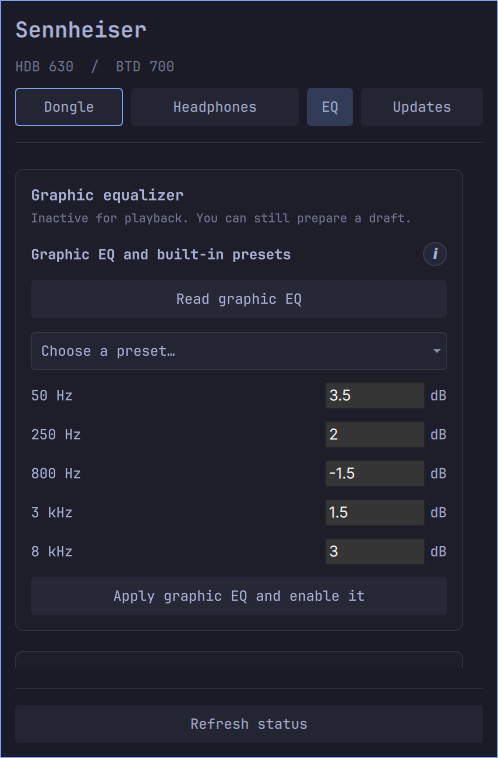
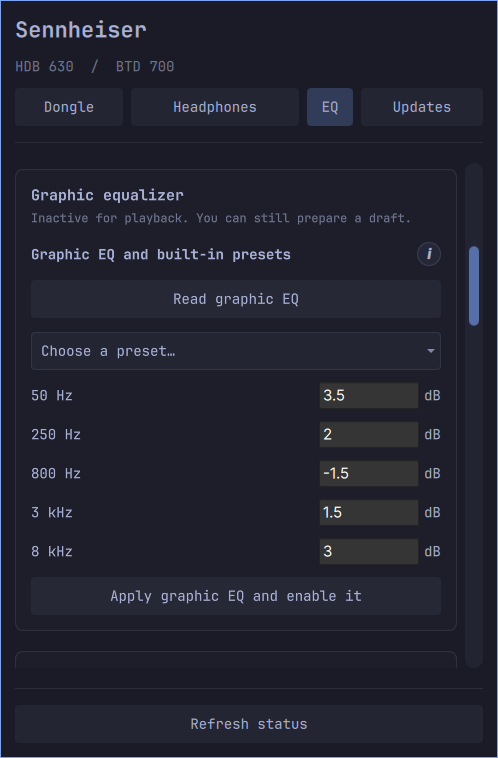
Fix tab focus and show a draggable settings scrollbar

diff --git a/Widget.qml b/Widget.qml
@@ -149,7 +149,9 @@ Panel {
         background: Rectangle {
             radius: 4
             color: actionButton.down || actionButton.checked ? Qt.alpha(Commons.Color.accent, 0.24) : Qt.alpha(Commons.Color.foreground, actionButton.hovered ? 0.14 : 0.07)
-            border.width: actionButton.activeFocus ? 1 : 0
+            // Opening the panel assigns focus automatically; only keyboard
+            // navigation should draw a ring distinct from the selected tab.
+            border.width: actionButton.visualFocus ? 1 : 0
             border.color: Commons.Color.accent
         }
         contentItem: Text {
@@ -412,15 +414,35 @@ Panel {
                 Layout.fillHeight: true
                 Layout.minimumHeight: 80
                 clip: true
-                // Keep a permanent gutter, even when the scrollbar fades out.
+                // Reserve a separate lane so the draggable bar never covers controls.
                 rightPadding: Math.max(Style.space(12), verticalScroll.implicitWidth) + Style.space(8)
                 contentWidth: availableWidth
                 contentHeight: panelContent.implicitHeight
                 Controls.ScrollBar.horizontal.policy: Controls.ScrollBar.AlwaysOff
                 Controls.ScrollBar.vertical: Controls.ScrollBar {
                     id: verticalScroll
+                    parent: settingsScroll
+                    x: settingsScroll.width - width
+                    y: settingsScroll.topPadding
+                    width: implicitWidth
+                    height: settingsScroll.availableHeight
+                    implicitWidth: Style.space(18)
+                    orientation: Qt.Vertical
                     policy: Controls.ScrollBar.AsNeeded
-                    active: size < 1
+                    visible: size < 1
+                    interactive: true
+                    hoverEnabled: true
+                    padding: Style.space(4)
+                    minimumSize: Math.min(1, Style.space(40) / Math.max(1, height))
+                    Accessible.name: "Settings scroll bar"
+                    contentItem: Rectangle {
+                        radius: width / 2
+                        color: Qt.alpha(Commons.Color.accent, verticalScroll.pressed ? 1 : verticalScroll.hovered ? .85 : .6)
+                    }
+                    background: Rectangle {
+                        radius: width / 2
+                        color: Qt.alpha(Commons.Color.foreground, verticalScroll.hovered ? .12 : .06)
+                    }
                 }
                 ColumnLayout {
                     id: panelContent

diff --git a/README.md b/README.md
@@ -12,7 +12,7 @@ Device control stays local. On-demand firmware checks contact Sennheiser’s off
 > compatibility, reliability, or recovery outcome is guaranteed. The license
 > contains the full disclaimer; mandatory legal rights are not excluded.
 
-![Sennheiser Control showing dongle settings, the transparency guide and parametric EQ](preview.png)
+![Sennheiser Control showing dongle settings, the transparency guide and graphic EQ](preview.png)
 
 [View screenshots and the animated WebP walkthrough](docs/media/README.md).
 
@@ -122,7 +122,11 @@ the [protocol notes](https://github.com/hatemosphere/hdb630-control-macos/blob/m
 
 The popup groups related controls into bordered sections. Its tabs and refresh
 button remain visible while the settings scroll; each EQ band has its own card.
-A dedicated scrollbar gutter keeps help icons clear of the scroll track.
+A visible scrollbar stays in a dedicated right-hand gutter whenever the page
+overflows. Drag its thumb or click the track to scroll without a wheel or touchpad
+gesture; the gutter keeps help icons clear. The thumb retains a minimum size on
+long EQ pages. Tab shading marks the selected page; focus outlines appear only
+during keyboard navigation.
 
 Headphone controls remember the last explicitly selected paired headset in
 `~/.local/state/sennheiser-control/connection.json` (or `$XDG_STATE_HOME`). After

diff --git a/docs/media/README.md b/docs/media/README.md
@@ -8,7 +8,8 @@ other desktop content are excluded.
 
 ![Animated tour of dongle controls, headphones, transparency help, EQ editors and firmware checks](walkthrough.webp)
 
-The silent, looping WebP shows tab navigation, scrolling and opening help cards.
+The silent, looping WebP shows tab navigation, dragging the visible scrollbar,
+scrolling through EQ editors and opening help cards.
 No headphone settings were changed while recording. Firmware installation is
 not implemented; the Updates tab checks versions and links to official software.
 
